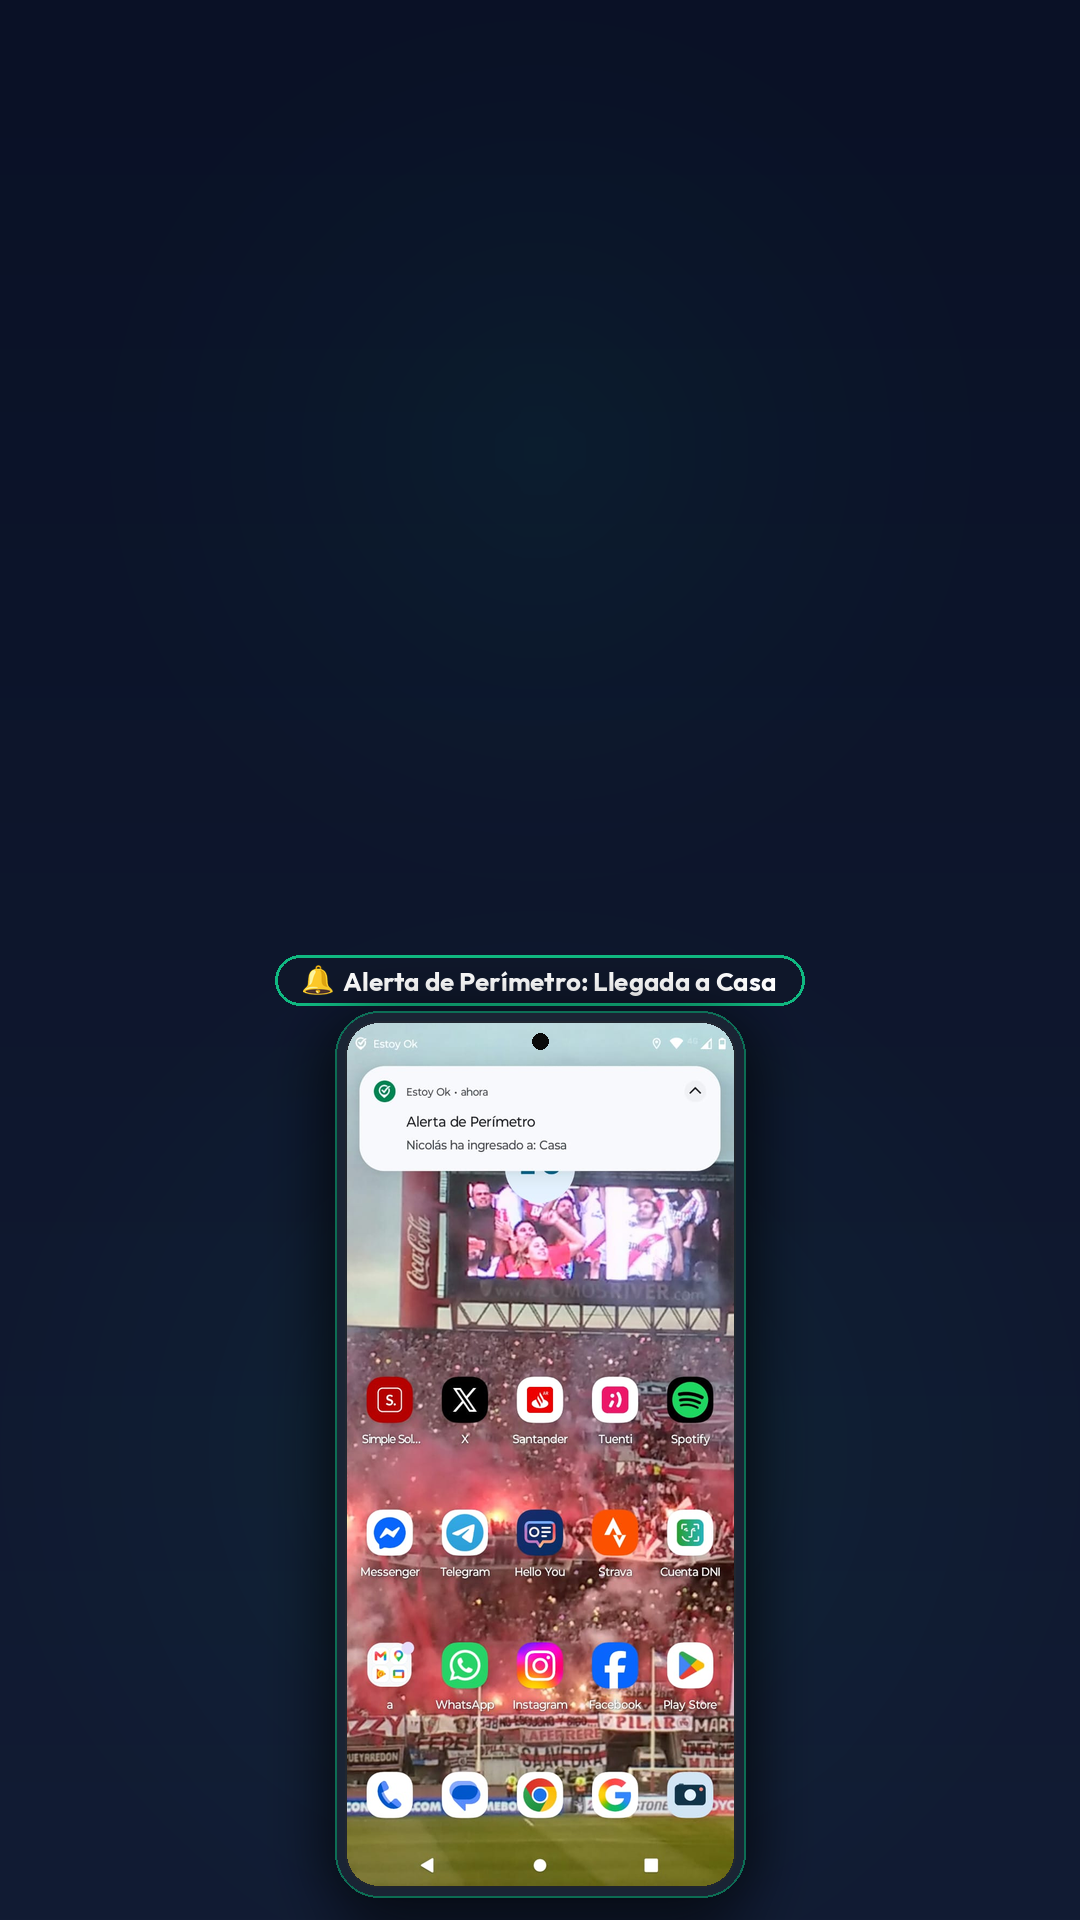
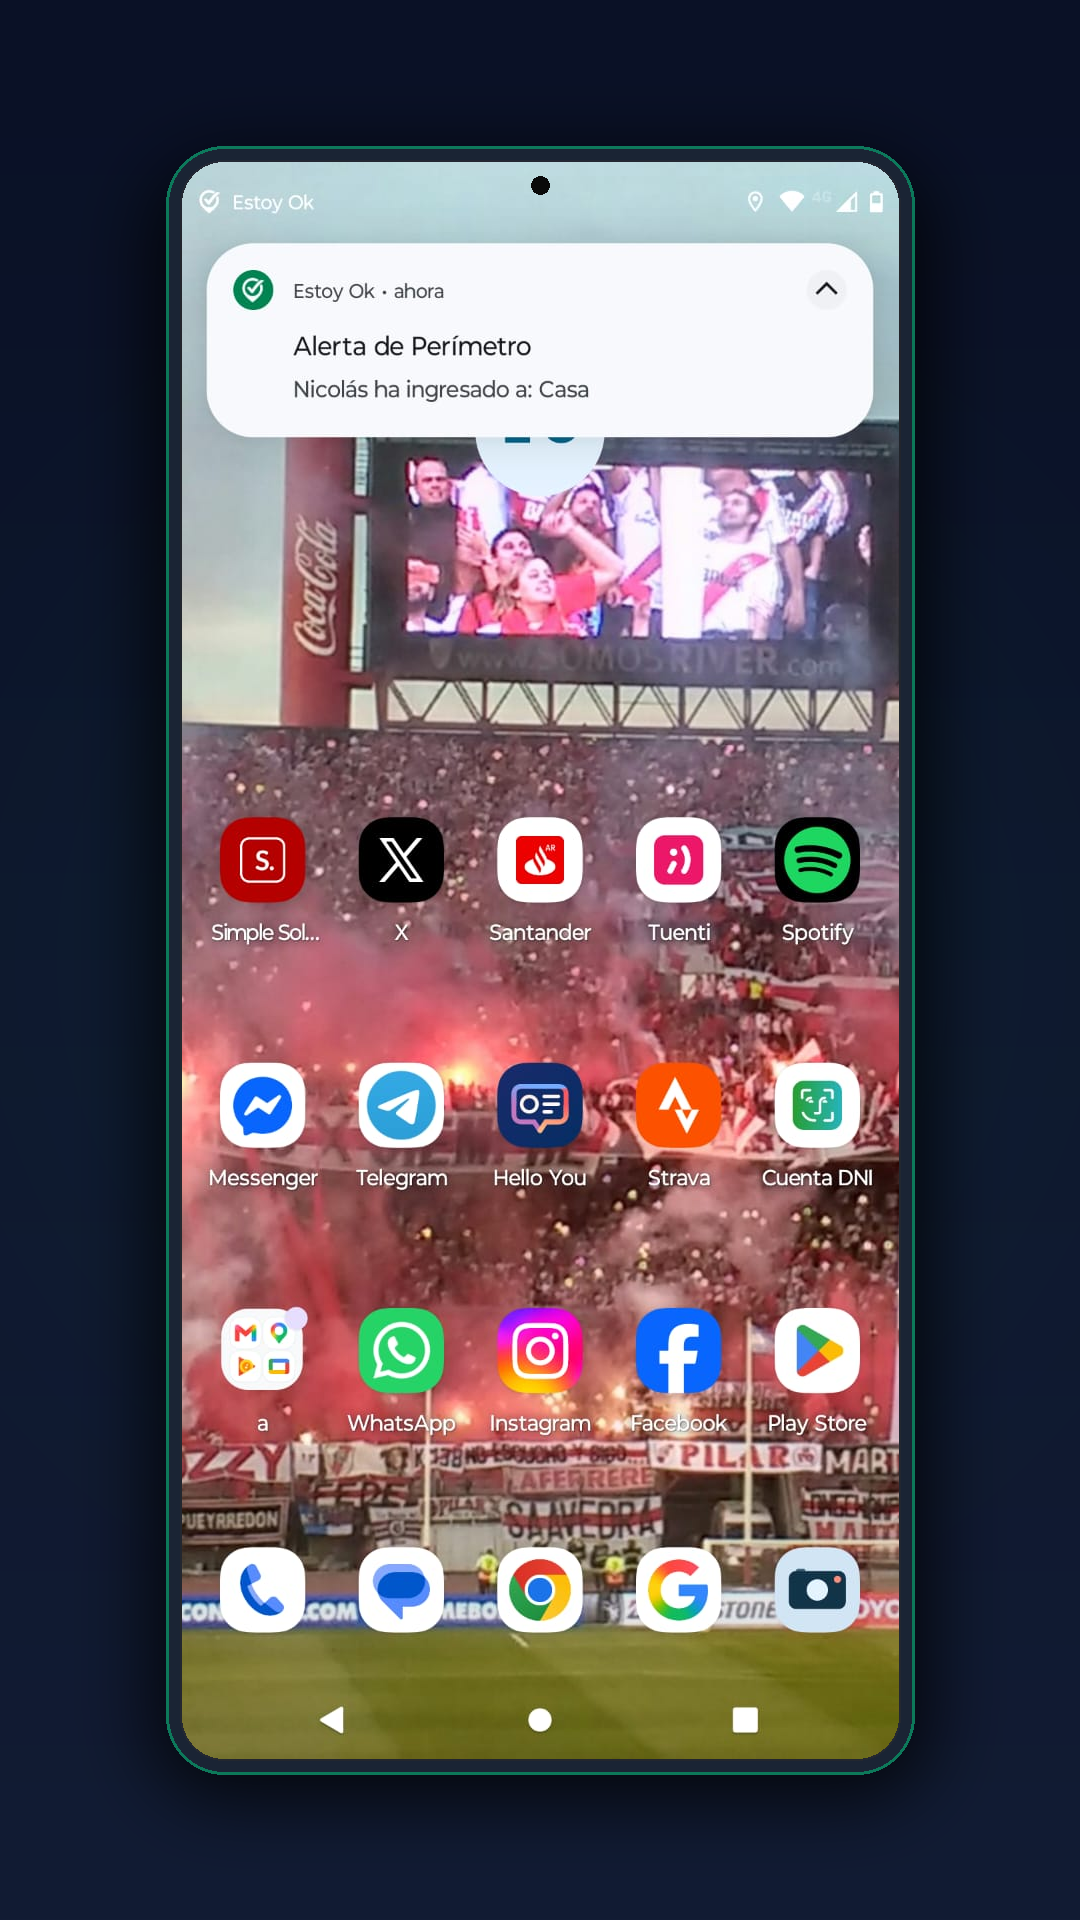
feat(instagram): switch story templates to full-size centered mockups for facecam bubble format

diff --git a/docs/generate_instagram_story_mockups.py b/docs/generate_instagram_story_mockups.py
@@ -27,7 +27,7 @@ def round_corners(image, radius):
     result.putalpha(mask)
     return result
 
-def add_glow(base_img, cx, cy, radius, color, alpha=45):
+def add_glow(base_img, cx, cy, radius, color, alpha=35):
     """Draws a subtle radial ambient glow."""
     glow = Image.new('RGBA', base_img.size, (0, 0, 0, 0))
     draw = ImageDraw.Draw(glow)
@@ -36,28 +36,10 @@ def add_glow(base_img, cx, cy, radius, color, alpha=45):
         current_alpha = int(alpha * (1.0 - (r / radius) ** 0.5))
         draw.ellipse([cx - r, cy - r, cx + r, cy + r], fill=(color[0], color[1], color[2], current_alpha))
     
-    glow = glow.filter(ImageFilter.GaussianBlur(35))
+    glow = glow.filter(ImageFilter.GaussianBlur(40))
     return Image.alpha_composite(base_img.convert('RGBA'), glow).convert('RGB')
 
-def render_emoji(emoji_char, target_size):
-    """Renders a crisp emoji using NotoColorEmoji downscaled with Lanczos."""
-    try:
-        font_emoji = ImageFont.truetype('/usr/share/fonts/truetype/noto/NotoColorEmoji.ttf', 109)
-        temp = Image.new('RGBA', (220, 220), (0, 0, 0, 0))
-        d = ImageDraw.Draw(temp)
-        d.text((20, 20), emoji_char, font=font_emoji, embedded_color=True)
-        bbox = temp.getbbox()
-        if bbox:
-            cropped = temp.crop(bbox)
-            aspect = cropped.width / cropped.height
-            new_h = target_size
-            new_w = max(1, int(target_size * aspect))
-            return cropped.resize((new_w, new_h), Image.Resampling.LANCZOS)
-    except Exception as e:
-        print(f"Emoji render error for {emoji_char}: {e}")
-    return None
-
-def draw_arrow(draw, start, end, color=(0, 229, 255, 255), width=5, arrow_size=16):
+def draw_arrow(draw, start, end, color=(0, 229, 255, 255), width=6, arrow_size=18):
     """Draws a directional arrow with a triangular head."""
     x0, y0 = start
     x1, y1 = end
@@ -77,30 +59,30 @@ def apply_annotations(app_img, annotation_type):
     img = app_img.convert('RGBA')
     overlay = Image.new('RGBA', img.size, (0, 0, 0, 0))
     d = ImageDraw.Draw(overlay)
-    font = ImageFont.truetype('android-native/app/src/main/res/font/outfit_bold.ttf', 28)
+    font = ImageFont.truetype('android-native/app/src/main/res/font/outfit_bold.ttf', 30)
 
     if annotation_type == "login_google_register":
         cyan = (0, 229, 255, 255)
         green = (16, 185, 129, 255)
         # 1. Google Button Focus
-        d.rounded_rectangle([(45, 1055), (675, 1148)], radius=20, outline=cyan, width=5)
+        d.rounded_rectangle([(45, 1055), (675, 1148)], radius=20, outline=cyan, width=6)
         d.rounded_rectangle([(60, 975), (410, 1030)], radius=16, fill=(15, 23, 42, 245), outline=cyan, width=3)
         d.text((80, 986), "Opción 1: Con Google", font=font, fill=(255, 255, 255))
-        draw_arrow(d, (230, 1030), (230, 1055), color=cyan, width=5, arrow_size=15)
+        draw_arrow(d, (230, 1030), (230, 1055), color=cyan, width=6, arrow_size=16)
 
-        # 2. Register Link Focus (in gap between Google button and link)
+        # 2. Register Link Focus
         d.rounded_rectangle([(375, 1230), (615, 1282)], radius=12, outline=green, width=4)
         d.rounded_rectangle([(60, 1165), (410, 1220)], radius=16, fill=(15, 23, 42, 245), outline=green, width=3)
         d.text((80, 1176), "Opción 2: Crear Cuenta", font=font, fill=(255, 255, 255))
-        draw_arrow(d, (350, 1215), (375, 1235), color=green, width=5, arrow_size=15)
+        draw_arrow(d, (350, 1215), (375, 1235), color=green, width=6, arrow_size=16)
 
     elif annotation_type == "nucleo_code":
         cyan = (0, 229, 255, 255)
         # Focus on copy code button at top right [3FIRL5LDLO]
-        d.rounded_rectangle([(435, 250), (710, 335)], radius=18, outline=cyan, width=5)
+        d.rounded_rectangle([(435, 250), (710, 335)], radius=18, outline=cyan, width=6)
         d.rounded_rectangle([(60, 260), (410, 315)], radius=16, fill=(15, 23, 42, 245), outline=cyan, width=3)
         d.text((80, 271), "Tu Código Familiar", font=font, fill=(255, 255, 255))
-        draw_arrow(d, (410, 287), (435, 287), color=cyan, width=5, arrow_size=15)
+        draw_arrow(d, (410, 287), (435, 287), color=cyan, width=6, arrow_size=16)
 
     elif annotation_type == "estoy_ok_button":
         green = (16, 185, 129, 255)
@@ -108,7 +90,7 @@ def apply_annotations(app_img, annotation_type):
         d.ellipse([(205, 680), (515, 990)], outline=green, width=6)
         d.rounded_rectangle([(160, 600), (560, 655)], radius=16, fill=(15, 23, 42, 245), outline=green, width=3)
         d.text((180, 611), "Tocá acá 1 vez al día", font=font, fill=(255, 255, 255))
-        draw_arrow(d, (360, 655), (360, 680), color=green, width=5, arrow_size=16)
+        draw_arrow(d, (360, 655), (360, 680), color=green, width=6, arrow_size=16)
 
     elif annotation_type == "sos_button":
         red = (239, 68, 68, 255)
@@ -116,134 +98,84 @@ def apply_annotations(app_img, annotation_type):
         d.rounded_rectangle([(550, 100), (690, 180)], radius=16, outline=red, width=5)
         d.rounded_rectangle([(160, 110), (530, 165)], radius=16, fill=(15, 23, 42, 245), outline=red, width=3)
         d.text((180, 121), "Botón de Pánico SOS", font=font, fill=(255, 255, 255))
-        draw_arrow(d, (530, 137), (550, 137), color=red, width=5, arrow_size=15)
+        draw_arrow(d, (530, 137), (550, 137), color=red, width=6, arrow_size=16)
 
     return Image.alpha_composite(img, overlay).convert('RGB')
 
 def build_instagram_story(
     output_path,
-    callout_emoji,
-    callout_landmark,
     app_image_path,
     accent_color=(16, 185, 129),
     annotation_type=None
 ):
     """
-    Generates a 1080x1920 Instagram Story background:
-    - Top 50% (0..950px): Clean background gradient + ambient glow, 100% free of text,
-      providing a seamless backdrop for the Google Flow avatar video.
-    - Bottom 50% (950..1920px): Floating phone mockup, landmark pill, and focus arrows.
-      The entire phone fits on screen with zero clipping at the bottom.
+    Generates a 1080x1920 Instagram Story template for the "FaceCam / Bubble Presenter" format:
+    - The phone mockup occupies 85% of screen height and 70% width (720x1600 native capture),
+      making every button, map street, and label gigantic and ultra-legible.
+    - Zero cropping or cutoffs at the edges.
+    - Clean background with ambient glow, providing ample room for placing the circular avatar bubble in Kdenlive.
     """
     W, H = 1080, 1920
     
     # 1. Base gradient: Deep Navy -> Slate Navy
     bg = create_gradient(W, H, (10, 17, 38), (18, 28, 52))
+    bg = add_glow(bg, W // 2, H // 2, 750, accent_color, alpha=32)
     
-    # Ambient glows (top for avatar backdrop, bottom for mockup)
-    bg = add_glow(bg, W // 2, 450, 480, accent_color, alpha=22)
-    bg = add_glow(bg, W // 2, 1450, 580, accent_color, alpha=36)
+    # 2. Native resolution smartphone frame (720 x 1600 screen)
+    phone_w = 720
+    phone_h = 1600
+    phone_x = (W - phone_w) // 2 # 180 px
+    phone_y = (H - phone_h) // 2 # 160 px
     
-    font_callout = ImageFont.truetype('android-native/app/src/main/res/font/outfit_bold.ttf', 26)
-    
-    # 2. Landmark Pill at y: 955 (transition between video and app mockup)
-    landmark_layer = Image.new('RGBA', (W, H), (0, 0, 0, 0))
-    l_draw = ImageDraw.Draw(landmark_layer)
-    
-    emoji_img = render_emoji(callout_emoji, 30)
-    emoji_w = emoji_img.width if emoji_img else 0
-    emoji_gap = 10 if emoji_img else 0
-    
-    draw = ImageDraw.Draw(bg)
-    l_bbox = draw.textbbox((0, 0), callout_landmark, font=font_callout)
-    l_w = l_bbox[2] - l_bbox[0]
-    l_h = l_bbox[3] - l_bbox[1]
-    
-    lm_total_w = emoji_w + emoji_gap + l_w
-    pad_x, pad_y = 28, 10
-    lm_pill_w = lm_total_w + pad_x * 2
-    lm_pill_h = max(l_h, 30) + pad_y * 2
-    lm_pill_x = (W - lm_pill_w) // 2
-    lm_pill_y = 955
-    
-    # Glowing pill
-    l_draw.rounded_rectangle(
-        [(lm_pill_x, lm_pill_y), (lm_pill_x + lm_pill_w, lm_pill_y + lm_pill_h)],
-        radius=lm_pill_h // 2,
-        fill=(15, 23, 42, 245),
-        outline=(accent_color[0], accent_color[1], accent_color[2], 255),
-        width=3
-    )
-    
-    if emoji_img:
-        ex = lm_pill_x + pad_x
-        ey = lm_pill_y + (lm_pill_h - emoji_img.height) // 2
-        landmark_layer.paste(emoji_img, (ex, ey), emoji_img)
-        tx = ex + emoji_w + emoji_gap
-    else:
-        tx = lm_pill_x + pad_x
-        
-    ty = lm_pill_y + (lm_pill_h - l_h) // 2 - 2
-    l_draw.text((tx, ty), callout_landmark, font=font_callout, fill=(255, 255, 255))
-    
-    bg = Image.alpha_composite(bg.convert('RGBA'), landmark_layer).convert('RGB')
-    
-    # 3. Device Mockup Frame (fits completely inside the canvas, zero pixels clipped)
-    app_raw = Image.open(app_image_path)
-    app_img = apply_annotations(app_raw, annotation_type)
-    
-    phone_w = 390
-    phone_h = int(phone_w * (app_img.size[1] / app_img.size[0])) # 866 px
-    
-    phone_x = (W - phone_w) // 2
-    phone_y = lm_pill_y + lm_pill_h + 16 # 955 + 50 + 16 = 1021 px
-    
-    border_thick = 10
-    screen_radius = 34
+    border_thick = 14
+    screen_radius = 44
     frame_radius = screen_radius + border_thick
     
     frame_w = phone_w + border_thick * 2
     frame_h = phone_h + border_thick * 2
-    frame_x = (W - frame_w) // 2
-    frame_y = phone_y - border_thick # 1011 px -> bottom ends at 1897 px (23px margin)
+    frame_x = phone_x - border_thick # 166 px
+    frame_y = phone_y - border_thick # 146 px
     
     # Drop shadow
     shadow_layer = Image.new('RGBA', (W, H), (0, 0, 0, 0))
     s_draw = ImageDraw.Draw(shadow_layer)
     s_draw.rounded_rectangle(
-        [(frame_x - 8, frame_y + 8), (frame_x + frame_w + 8, frame_y + frame_h + 16)],
-        radius=frame_radius + 6,
-        fill=(0, 0, 0, 180)
+        [(frame_x - 14, frame_y + 14), (frame_x + frame_w + 14, frame_y + frame_h + 24)],
+        radius=frame_radius + 12,
+        fill=(0, 0, 0, 200)
     )
-    shadow_layer = shadow_layer.filter(ImageFilter.GaussianBlur(28))
+    shadow_layer = shadow_layer.filter(ImageFilter.GaussianBlur(36))
     bg = Image.alpha_composite(bg.convert('RGBA'), shadow_layer).convert('RGB')
+    
+    # 3. Apply annotations on the screenshot
+    app_raw = Image.open(app_image_path)
+    app_img = apply_annotations(app_raw, annotation_type)
     
     # Phone Frame
     frame_layer = Image.new('RGBA', (W, H), (0, 0, 0, 0))
     f_draw = ImageDraw.Draw(frame_layer)
     
-    # Bezel
+    # Titanium Bezel with accent highlight
     f_draw.rounded_rectangle(
         [(frame_x, frame_y), (frame_x + frame_w, frame_y + frame_h)],
         radius=frame_radius,
         fill=(26, 36, 52, 255),
-        outline=(accent_color[0], accent_color[1], accent_color[2], 140),
-        width=2
+        outline=(accent_color[0], accent_color[1], accent_color[2], 160),
+        width=3
     )
     
-    # Screen image
-    app_resized = app_img.resize((phone_w, phone_h), Image.Resampling.LANCZOS).convert('RGBA')
-    app_rounded = round_corners(app_resized, screen_radius)
+    # Screen
+    app_rounded = round_corners(app_img.convert('RGBA'), screen_radius)
     frame_layer.paste(app_rounded, (phone_x, phone_y), app_rounded)
     
-    # Camera punch hole
-    f_draw.ellipse([(W // 2 - 8, phone_y + 12), (W // 2 + 8, phone_y + 28)], fill=(10, 10, 10, 255))
+    # Front camera punch hole
+    f_draw.ellipse([(W // 2 - 9, phone_y + 16), (W // 2 + 9, phone_y + 34)], fill=(10, 10, 10, 255))
     
     # Screen inner bevel
     f_draw.rounded_rectangle(
         [(phone_x, phone_y), (phone_x + phone_w, phone_y + phone_h)],
         radius=screen_radius,
-        outline=(255, 255, 255, 25),
+        outline=(255, 255, 255, 30),
         width=2
     )
     
@@ -256,7 +188,6 @@ def build_instagram_story(
 def main():
     dest_dir = "docs/instagram_stories_assets"
     
-    # Clean output directory so only the exact needed images exist
     if os.path.exists(dest_dir):
         shutil.rmtree(dest_dir)
     os.makedirs(dest_dir, exist_ok=True)
@@ -265,24 +196,18 @@ def main():
         # CARPETA 1: 🚀 EMPEZÁ ACÁ
         {
             "filename": f"{dest_dir}/destacada1_h1_login.png",
-            "emoji": "👉",
-            "landmark": "Tocá 'Google' o 'Registrate aquí'",
             "image": "docs/imagen06.jpg",
             "accent": (0, 229, 255),
             "annotation": "login_google_register"
         },
         {
             "filename": f"{dest_dir}/destacada1_h2_nucleo.png",
-            "emoji": "👨👩👧",
-            "landmark": "Pestaña Familia → Compartí tu Código",
             "image": "docs/captura_crear_nucleo.jpg",
             "accent": (0, 229, 255),
             "annotation": "nucleo_code"
         },
         {
             "filename": f"{dest_dir}/destacada1_h3_mapa.png",
-            "emoji": "🟢",
-            "landmark": "Pestaña Mapa → Conexión en Vivo y Batería",
             "image": "docs/imagen01.jpg",
             "accent": (16, 185, 129),
             "annotation": None
@@ -291,16 +216,12 @@ def main():
         # CARPETA 2: 🟢 EL BOTÓN "ESTOY OK"
         {
             "filename": f"{dest_dir}/destacada2_h1_estoy_ok.png",
-            "emoji": "🟢",
-            "landmark": "Pestaña Estoy OK → Botón de Bienestar",
             "image": "docs/imagen02.jpg",
             "accent": (16, 185, 129),
             "annotation": "estoy_ok_button"
         },
         {
             "filename": f"{dest_dir}/destacada2_h2_alerta_whatsapp.png",
-            "emoji": "📲",
-            "landmark": "Alerta Automática a Contactos SOS",
             "image": "docs/crash_alert_message_whatsapp.jpg",
             "accent": (37, 211, 102),
             "annotation": None
@@ -309,16 +230,12 @@ def main():
         # CARPETA 3: 📍 ZONAS SEGURAS
         {
             "filename": f"{dest_dir}/destacada3_h1_zonas_crear.png",
-            "emoji": "📍",
-            "landmark": "Pestaña Mapa → Selector de Zonas Seguras",
             "image": "docs/zoom.jpg",
             "accent": (0, 229, 255),
             "annotation": None
         },
         {
             "filename": f"{dest_dir}/destacada3_h2_zonas_notif.png",
-            "emoji": "🔔",
-            "landmark": "Alerta de Perímetro: Llegada a Casa",
             "image": "docs/captura_notif_zona.jpg",
             "accent": (16, 185, 129),
             "annotation": None
@@ -327,16 +244,12 @@ def main():
         # CARPETA 4: 🚨 CONTACTOS SOS & WHATSAPP
         {
             "filename": f"{dest_dir}/destacada4_h1_contactos_sos.png",
-            "emoji": "👥",
-            "landmark": "Pestaña Estoy OK → Agregar Contacto SOS",
             "image": "docs/captura_modal_contactos.jpg",
             "accent": (239, 68, 68),
             "annotation": None
         },
         {
             "filename": f"{dest_dir}/destacada4_h2_rescate_web.png",
-            "emoji": "🚨",
-            "landmark": "Web de Rescate → Botón 'Voy en camino'",
             "image": "docs/captura_rescate_web.jpg",
             "accent": (239, 68, 68),
             "annotation": "sos_button"
@@ -345,16 +258,12 @@ def main():
         # CARPETA 5: 🚗 EN EL AUTO (SEGURIDAD VIAL)
         {
             "filename": f"{dest_dir}/destacada5_h1_conduccion.png",
-            "emoji": "⭐",
-            "landmark": "Pestaña Vehículo → Score de Manejo (70 pts)",
             "image": "docs/imagen03.jpg",
             "accent": (245, 158, 11),
             "annotation": None
         },
         {
             "filename": f"{dest_dir}/destacada5_h2_choques.png",
-            "emoji": "⚠",
-            "landmark": "Alerta de Impacto 4.80G y Aviso WhatsApp",
             "image": "docs/crash_alert_screen.jpg",
             "accent": (239, 68, 68),
             "annotation": None
@@ -363,28 +272,22 @@ def main():
         # CARPETA 6: 🔋 BATERÍA & PRIVACIDAD
         {
             "filename": f"{dest_dir}/destacada6_h1_bateria.png",
-            "emoji": "🔋",
-            "landmark": "Pestaña Mapa → Nivel de Batería en Vivo",
             "image": "docs/imagen01.jpg",
             "accent": (16, 185, 129),
             "annotation": None
         },
         {
             "filename": f"{dest_dir}/destacada6_h2_privacidad.png",
-            "emoji": "🔒",
-            "landmark": "Privacidad Garantizada: Sin Anuncios",
             "image": "docs/imagen06.jpg",
             "accent": (168, 85, 247),
             "annotation": None
         }
     ]
     
-    print(f"Generando {len(stories)} piezas definitivas para Historias Destacadas...")
+    print(f"Generando las {len(stories)} plantillas definitivas en formato FaceCam / Burbuja...")
     for s in stories:
         build_instagram_story(
             output_path=s["filename"],
-            callout_emoji=s["emoji"],
-            callout_landmark=s["landmark"],
             app_image_path=s["image"],
             accent_color=s["accent"],
             annotation_type=s.get("annotation")
